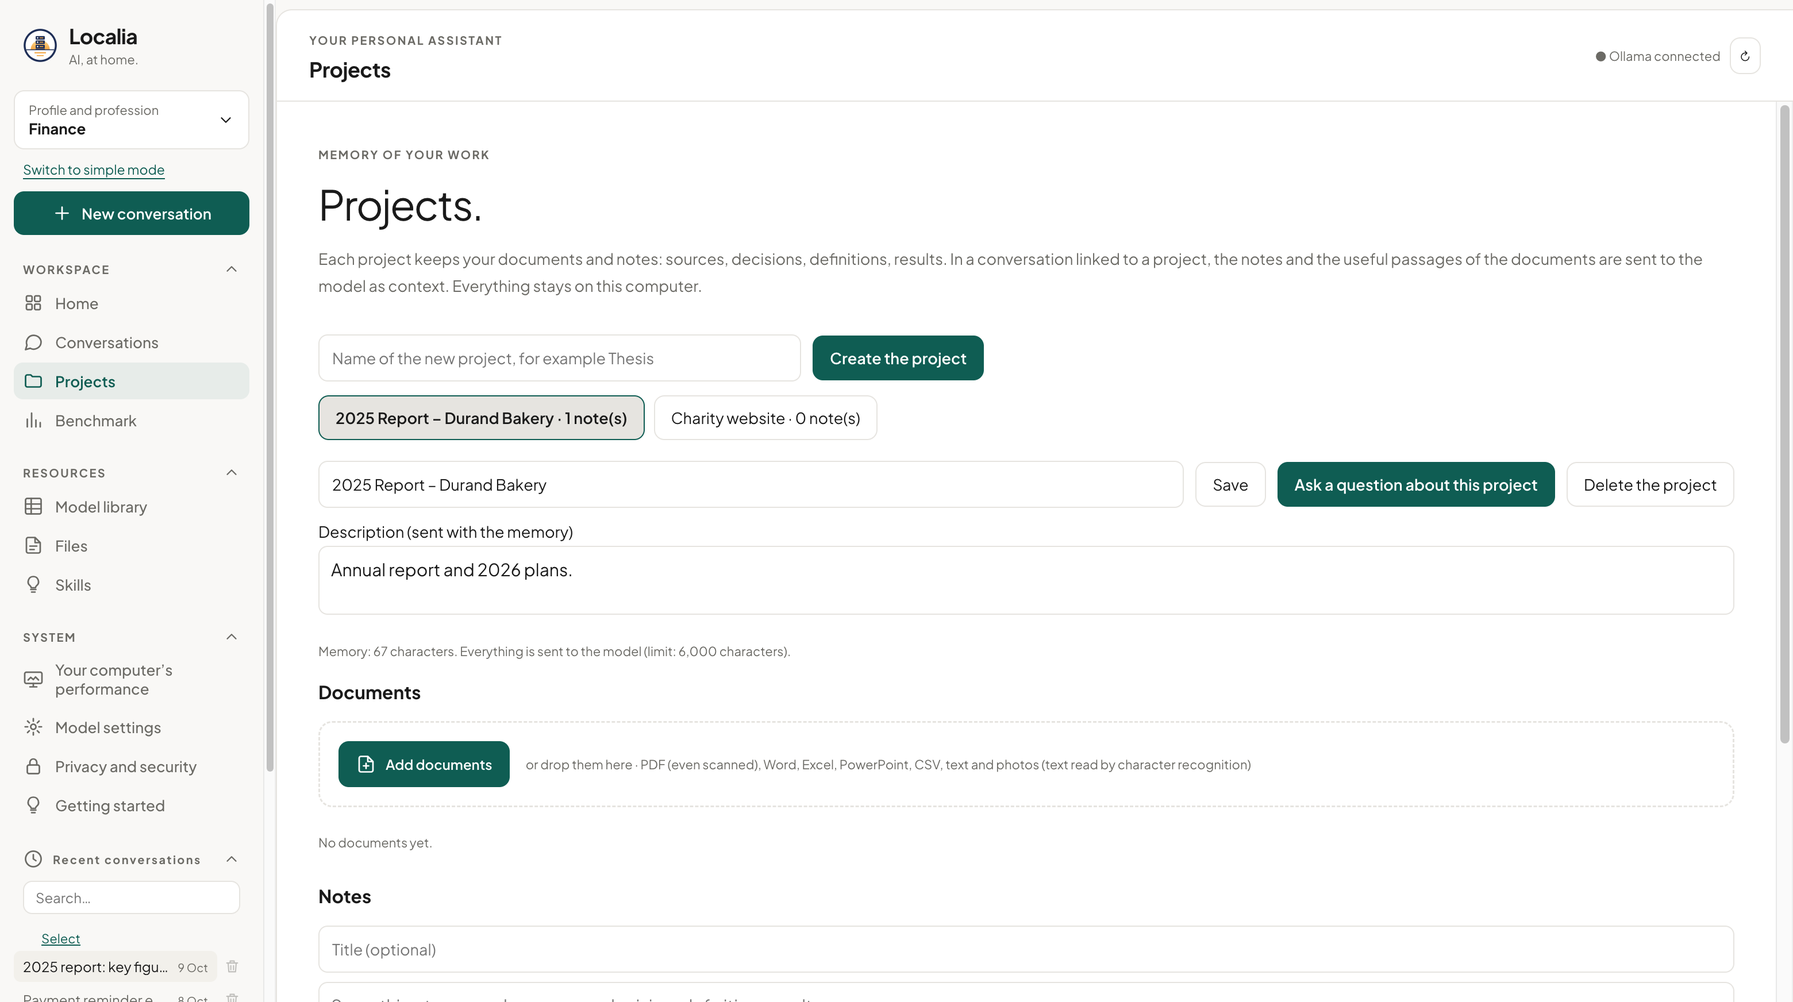
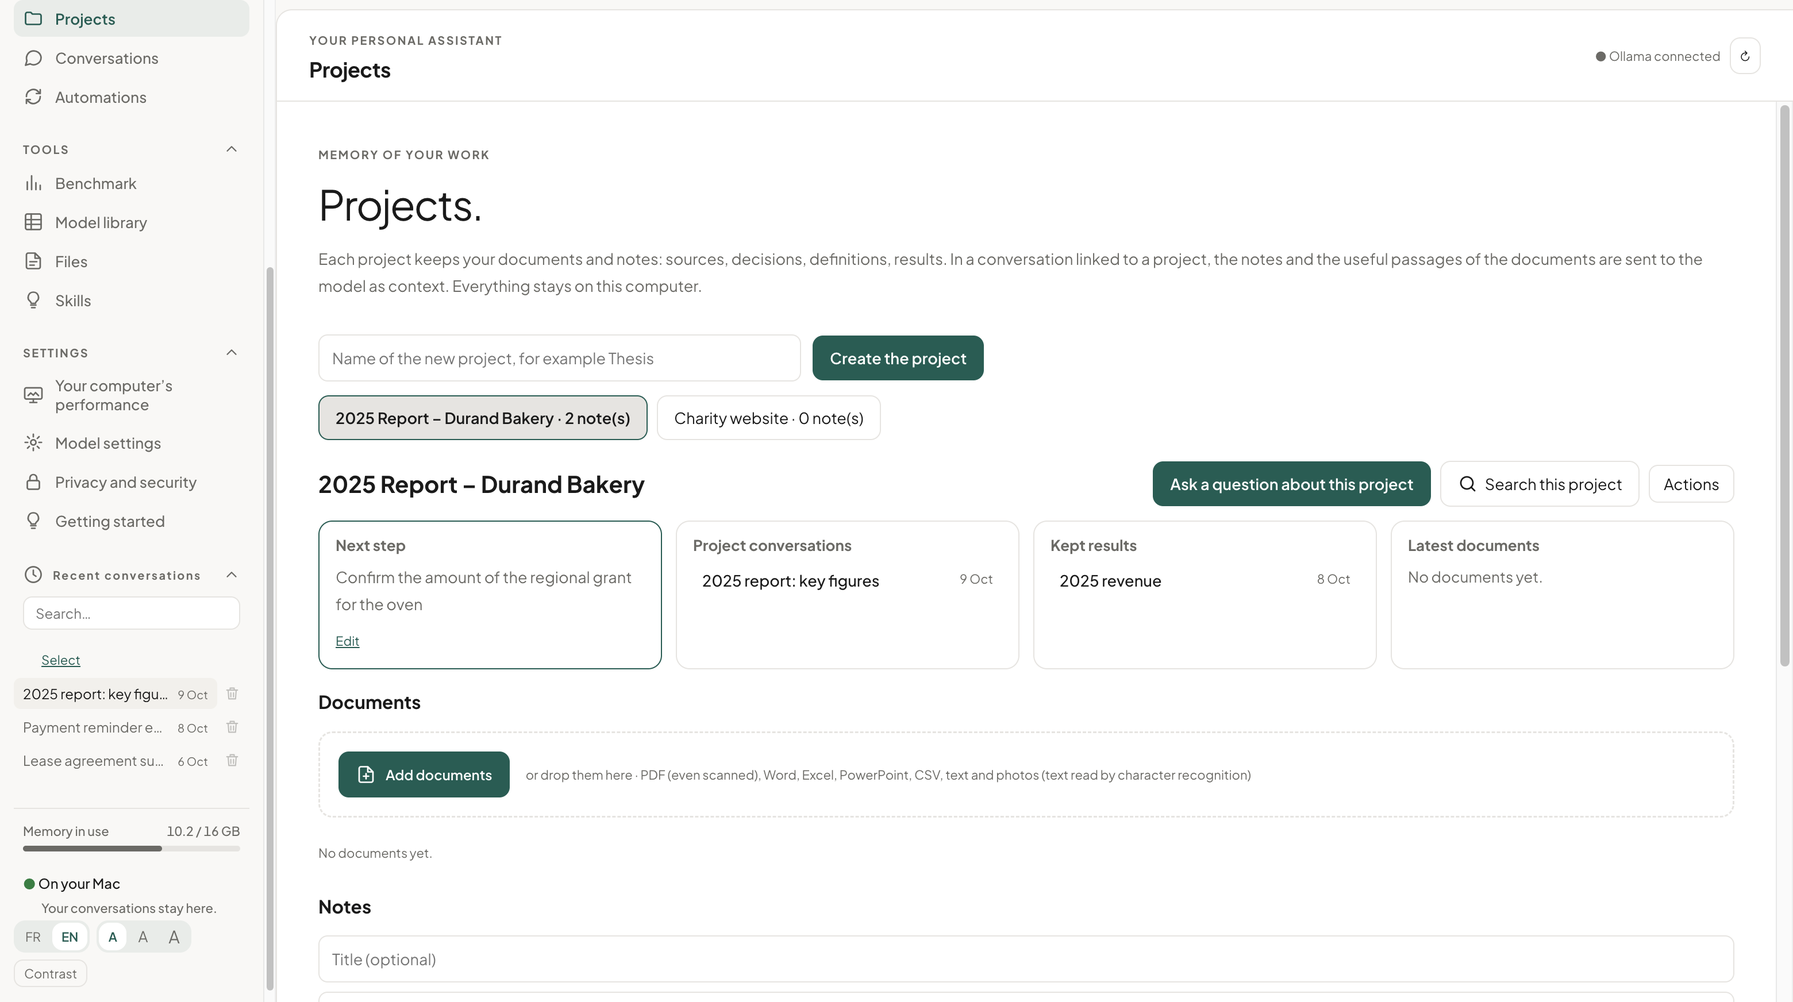
README : recherche commune, projets, mémoire relue, automatisations, sauvegarde ; captures refaites
README français et anglais : nouvelles fonctions, test de l'espace de travail,
mesures reproductibles (recherche documentaire, accessibilité), limites.
Captures régénérées en français et en anglais, avec deux nouvelles (recherche,
automatisations) ; profil de démonstration complété (prochaine étape, note
avec provenance, routine et son résultat).

Extraits de la recherche sans mise en forme Markdown ; mot trouvé surligné
sans contour qui masquait l'espace suivant.

diff --git a/src/search.js b/src/search.js
@@ -25,6 +25,15 @@ function searchExcerpt(text, words, size = 180) {
   return (start > 0 ? '…' : '') + raw.slice(start, end).trim() + (end < raw.length ? '…' : '');
 }
 
+// Texte des réponses sans la mise en forme Markdown (gras, titres, tableaux, code), pour les extraits.
+const plainText = (text) =>
+  String(text || '')
+    .replace(/```[a-z]*\n?/gi, '')
+    .replace(/(\*\*|__|`)/g, '')
+    .replace(/^\s{0,3}(#{1,6}\s+|[-*]\s+|>\s?)/gm, '')
+    .replace(/^\s*\|?[\s:|-]+\|[\s:|-]*$/gm, '')
+    .replace(/\s*\|\s*/g, ' · ');
+
 // Filtre de projet : '' = tous, 'none' = sans projet, sinon l'identifiant du projet.
 const inProject = (projectId, filter) =>
   !filter || (filter === 'none' ? !projectId : projectId === filter);
@@ -51,7 +60,7 @@ function searchConversations(conversations, words, filter = '') {
         index,
         role: m.role,
         at: c.updatedAt || null,
-        excerpt: searchExcerpt(m.content, words),
+        excerpt: searchExcerpt(plainText(m.content), words),
       });
     });
     if (titleMatch && !found && results.length < SEARCH_LIMIT)
@@ -62,7 +71,7 @@ function searchConversations(conversations, words, filter = '') {
         projectId: c.projectId || null,
         index: null,
         at: c.updatedAt || null,
-        excerpt: searchExcerpt(c.messages?.[0]?.content || '', words),
+        excerpt: searchExcerpt(plainText(c.messages?.[0]?.content), words),
       });
   }
   return results;
@@ -83,7 +92,7 @@ function searchNotes(projects, words, filter = '') {
         noteId: n.id,
         title: n.title || 'Note',
         at: n.updatedAt || n.createdAt || null,
-        excerpt: searchExcerpt(n.text, words),
+        excerpt: searchExcerpt(plainText(n.text), words),
       });
     }
   }

diff --git a/src/style.css b/src/style.css
@@ -4457,11 +4457,13 @@ body[data-mode='simple'] .composer-footer {
 }
 .search-excerpt mark,
 .reader-text mark {
+  padding: 0 2px;
   background: var(--accent-soft);
   color: var(--fg);
-  font-weight: 600;
+  font-weight: 700;
   border-radius: 3px;
-  outline: 1px solid var(--accent);
+  text-decoration: underline;
+  text-decoration-color: var(--accent);
 }
 .search-hit {
   outline: 2px solid var(--accent);
@@ -4988,4 +4990,8 @@ input:not([type='checkbox']):not([type='radio']) {
 }
 .chat-project .link-button {
   margin-left: 0;
+}
+
+.run-detail .input-row {
+  justify-content: flex-start;
 }

diff --git a/README.fr.md b/README.fr.md
@@ -14,7 +14,9 @@ Localia est une application de bureau pour macOS, Windows et Linux, pour utilise
 
 | Mode simple | Mode avancé : accueil |
 |---|---|
-| ![Mode simple : choix du domaine, question, idée ou document, avec le modèle conseillé par votre Benchmark, et reprise d’un projet](docs/simple.png) | ![Mode avancé : actions, modèle conseillé, travail récent et état du système](docs/home.png) |
+| ![Mode simple : choix du domaine, question, idée ou document, avec le modèle conseillé par votre Benchmark, et reprise d’un projet](docs/simple.png) | ![Mode avancé : actions, travail à reprendre, résultats à traiter et état technique replié](docs/home.png) |
+| **Recherche commune** | **Automatisations** |
+| ![Recherche dans les conversations, les notes et les documents des projets, mots surlignés](docs/search.png) | ![Routine : synthèse sourcée d’un document ajouté, citations vérifiées, résultat à relire](docs/routines.png) |
 | **Conversation** | **Benchmark** |
 | ![Conversation avec un modèle local](docs/chat.png) | ![Benchmark : résultats par modèle](docs/benchmark.png) |
 | **Comparaison d'une série de questions** | **Graphiques du Benchmark** |
@@ -28,10 +30,16 @@ Localia est une application de bureau pour macOS, Windows et Linux, pour utilise
 - **Questions sur un PDF** : texte extrait localement (PDF.js) ; pour les documents longs, des extraits pertinents sont sélectionnés et les pages transmises au modèle sont affichées.
 - **Vérifications automatiques**, sans modèle, sous chaque réponse : calculs refaits, références de pages impossibles, citations introuvables dans le document, nombres absents ; les PDF contenant une consigne adressée à une IA sont signalés dès l'import.
 - **Assistant de recherche** : un menu Tâche choisit le modèle conseillé par votre Benchmark et ajoute une consigne adaptée ; la mémoire par projet envoie vos propres notes au modèle comme contexte.
+- **Projets** : documents (PDF même scannés, Word, Excel, PowerPoint, CSV, textes, photos) et notes ; en tête de chaque projet, la prochaine étape que vous notez, ses conversations, les résultats conservés et les derniers documents, lisibles page par page. Dans une conversation de projet, chaque source citée est comparée au passage du document, avec un libellé qui dit ce qui a été retrouvé (chiffres, mots-clés ou seulement le document) : une correspondance de texte, pas une garantie de justesse.
+- **Mémoire relue** : une réponse n’entre dans la mémoire d’un projet qu’après relecture, avec sa provenance (conversation, question, modèle, date) ; les décisions que vous écrivez (« on retient… ») sont proposées comme notes, à enregistrer, corriger ou ignorer.
+- **Recherche commune** (⌘K) : conversations, notes et texte des documents des projets, filtrable par projet et par type ; chaque résultat s’ouvre à son endroit (message, note, page du document).
+- **Automatisations** : une routine surveille un projet ; chaque document ajouté est lu, résumé avec ses sources par le modèle choisi, ses citations vérifiées, puis proposé à la relecture. Étape réelle affichée, arrêt et suspension ; vos conversations passent avant ; un traitement interrompu reprend au démarrage suivant.
+- **Accueil** du mode avancé : reprendre (dernière conversation, projets actifs et leur prochaine étape), à traiter (résultats à relire, erreurs, nouveaux articles de la veille, départ programmé manqué), activité en cours, état technique replié.
 - **Fichiers, avec votre accord** : le modèle propose un plan (classer, renommer, créer des dossiers ou une note) dans un dossier que vous avez autorisé ; Localia vérifie chaque action, vous cochez ce qui doit être appliqué ; rien n'est écrasé ni supprimé définitivement, chaque opération peut être annulée.
 - **Chiffrement facultatif** de toutes les données de Localia sur le disque (AES-256-GCM, clé dans le trousseau de macOS, clé de secours).
+- **Sauvegarde et restauration** : toutes les données dans un seul fichier `.localia`, chiffré par une phrase de passe (AES-256-GCM, scrypt), indépendant du trousseau ; empreinte de chaque élément vérifiée ; avant une restauration, les données actuelles sont copiées dans un dossier « avant-restauration ».
 - **Zotero** (en local, lecture seule) : recherche dans votre bibliothèque, comparaison des références d'un article avec elle, questions sur le PDF d'un élément.
-- **Veille et séries programmées** : nouveaux articles sur vos sujets (OpenAlex, facultatif), séries du Benchmark lancées à l'heure choisie, Mac maintenu éveillé.
+- **Veille et séries programmées** : nouveaux articles sur vos sujets (OpenAlex, facultatif), séries du Benchmark lancées à l'heure choisie, Mac maintenu éveillé ; un départ programmé est conservé si Localia se ferme, et signalé comme manqué s'il est passé (jamais lancé à votre insu).
 - **Compétences** : consignes réutilisables en Markdown, choisies dans le menu Tâche ou appelées par `/nom` en début de message ; parcours pas à pas pour les données brutes, l'article, la thèse et le développement d'une application.
 - **Fichiers de données** : consignes, code ou CSV joints à une conversation ; les tableaux sont résumés (colonnes, types, manquants, bornes) au lieu d'être envoyés en entier ; vous exécutez vous-même le code produit.
 - **Bibliographie** : citations d'auteurs (« Nom [n] ») comparées hors ligne à la liste de références de l'article ; en option (désactivée par défaut, seule fonction qui utilise Internet), existence des références vérifiée avec Crossref et recherche d'articles avec OpenAlex.
@@ -80,9 +88,17 @@ Les versions Mac sont signées *ad hoc* (obligatoire sur Apple Silicon), pas ave
 npm test                 # tests unitaires (sans Electron ni Ollama)
 npm run test:features    # application de bureau, Ollama simulé
 npm run test:pdf         # application de bureau, import réel d'un PDF, réponses et services simulés
+npm run test:workspace   # recherche, projets, mémoire, routines, sauvegarde ; Ollama simulé
 npm run test:encryption  # chiffrement des données, coffre de clés simulé
 npm run test:engine      # moteur intégré réel (llama.cpp) avec un modèle de test de 105 Mo (téléchargé une fois)
 npm run test:desktop     # application de bureau, nécessite Ollama actif avec un modèle
+```
+
+Deux mesures reproductibles complètent les tests :
+
+```sh
+node scripts/mesure-recherche.cjs        # choix des passages des documents (docs/MESURE-RECHERCHE.md)
+node scripts/audit-accessibilite.cjs     # contrastes, clavier, zoom 200 %, cibles (docs/ACCESSIBILITE.md)
 ```
 
 Le workflow GitHub lance ces tests et construit l'application sur macOS Apple Silicon, macOS Intel et Windows.
@@ -98,7 +114,7 @@ Une série est un fichier `.txt` ou `.md`. Les questions sont séparées par une
 - **L'accès depuis vos autres appareils est désactivé par défaut.** Une fois activé (Réglages), un petit serveur web permet à un téléphone ou un ordinateur d'utiliser Localia après avoir scanné un QR code qui contient une clé secrète ; sans la clé, tout est refusé, les essais répétés sont bloqués, les en-têtes Host étrangers rejetés. Sur le réseau local, les échanges ne sont pas chiffrés (Wi-Fi de confiance) ; depuis l'extérieur, passez par Tailscale (réseau privé chiffré) plutôt que d'ouvrir l'ordinateur à Internet.
 - **Une page web n'est téléchargée que si vous collez son adresse** (collée dans le message, ou `/web adresse`) : les adresses du réseau local ou privées sont refusées, redirections comprises ; seul le texte de la page est gardé, rien n'est affiché ni exécuté.
 - **Les services en ligne sont désactivés par défaut.** Une fois autorisés dans l'onglet Bibliographie, seul le texte d'une recherche, d'une référence à vérifier ou d'un sujet suivi est envoyé, et uniquement à `api.openalex.org` et `api.crossref.org`. Documents, notes et conversations ne quittent jamais l'ordinateur.
-- Les données (historique, réglages, comparaisons, projets, texte extrait des PDF, journal des actions, veille) sont enregistrées dans le dossier de données d'Electron. Elles peuvent être **chiffrées** (AES-256-GCM, clé protégée par le trousseau de macOS ou la protection des données de Windows, clé de secours exportable).
+- Les données (historique, réglages, comparaisons, projets, texte extrait des PDF, journal des actions, veille, routines) sont enregistrées dans le dossier de données d'Electron. Elles peuvent être **chiffrées** (AES-256-GCM, clé protégée par le trousseau de macOS ou la protection des données de Windows, clé de secours exportable).
 - Les actions sur les fichiers ne touchent que les dossiers autorisés, après validation de chaque action ; rien n'est écrasé ni supprimé définitivement.
 - L'interface Electron est isolée et sandboxée, sans accès à Node ni contenu distant.
 
@@ -107,7 +123,9 @@ Une série est un fichier `.txt` ou `.md`. Les questions sont séparées par une
 - Sans carte graphique prise en charge, les modèles tournent sur le processeur : comptez quelques tokens par seconde pour des modèles de 4 à 12 milliards de paramètres.
 - Les PDF longs sont transmis par extraits choisis selon les mots de la question (10 000 caractères), pas en entier.
 - L'application n'est ni notariée par Apple ni signée pour Windows : le système avertit au premier lancement (macOS : clic droit → Ouvrir ; Windows : « Informations complémentaires » → « Exécuter quand même »).
-- Les tâches planifiées (veille, séries programmées) ne tournent que lorsque Localia est ouverte.
+- Les tâches planifiées (veille, séries programmées, routines) ne tournent que lorsque Localia est ouverte.
+- Les passages des documents d'un projet sont choisis selon les mots de la question : une question formulée autrement peut manquer le bon passage (Localia le signale quand aucun extrait ne contient ses mots). Mesure et limites dans [`docs/MESURE-RECHERCHE.md`](docs/MESURE-RECHERCHE.md).
+- L'accessibilité est contrôlée automatiquement (contrastes, clavier, zoom), pas encore avec un lecteur d'écran : voir [`docs/ACCESSIBILITE.md`](docs/ACCESSIBILITE.md).
 - Les notes sont des jugements humains (ou externes) : le Benchmark calcule des statistiques, il ne note pas les réponses automatiquement.
 
 ## Licence et citation

diff --git a/README.md b/README.md
@@ -14,7 +14,9 @@ Localia is a desktop application for macOS, Windows and Linux for working with l
 
 | Simple mode | Advanced mode: home |
 |---|---|
-| ![Simple mode: choose your field, ask a question, explore an idea or analyse a document, with the model recommended by your Benchmark, and resume a project](docs/en/simple.png) | ![Advanced mode: actions, recommended model, recent work and system status](docs/en/home.png) |
+| ![Simple mode: choose your field, ask a question, explore an idea or analyse a document, with the model recommended by your Benchmark, and resume a project](docs/en/simple.png) | ![Advanced mode: actions, work to resume, results to handle and folded technical status](docs/en/home.png) |
+| **Common search** | **Automations** |
+| ![Search across conversations, notes and project documents, words highlighted](docs/en/search.png) | ![Routine: sourced summary of an added document, citations checked, result to review](docs/en/routines.png) |
 | **Chat** | **Benchmark** |
 | ![Chat with a local model](docs/en/chat.png) | ![Benchmark: per-model results](docs/en/benchmark.png) |
 | **Comparison of a question series** | **Benchmark charts** |
@@ -28,10 +30,16 @@ Localia is a desktop application for macOS, Windows and Linux for working with l
 - **PDF questions**: text is extracted locally (PDF.js); for long documents, relevant excerpts are selected and the pages sent to the model are shown.
 - **Automatic checks**, without any model, under every answer: calculations recomputed, impossible page references, quotations not found in the document, numbers absent from it; PDFs containing instructions addressed to an AI are flagged on import.
 - **Research assistant**: a task menu selects the model recommended by your Benchmark and adds a task instruction; project memory sends your own notes to the model as context.
+- **Projects**: documents (PDFs, even scanned, Word, Excel, PowerPoint, CSV, text, photos) and notes; at the top of each project, the next step you write down, its conversations, kept results and latest documents, readable page by page. In a project conversation, each cited source is compared with the document passage, labelled with what was found (figures, keywords or only the document): a text match, not a guarantee of correctness.
+- **Reviewed memory**: an answer enters a project's memory only after you review it, with its source (conversation, question, model, date); decisions you write (“we keep…”) are offered as notes to save, correct or ignore.
+- **Common search** (⌘K): conversations, notes and project document text, filtered by project and type; each result opens at its place (message, note, document page).
+- **Automations**: a routine watches a project; each added document is read, summarised with its sources by the chosen model, its citations checked, then offered for review. Real step shown, stop and pause; your conversations come first; an interrupted job resumes at the next start.
+- **Home** in advanced mode: resume (last conversation, active projects and their next step), to do (results to review, errors, new watch articles, missed scheduled start), current activity, folded technical status.
 - **Files, with your consent**: the model proposes a plan (sort, rename, create folders or a note) in a folder you authorized; Localia checks each action, you tick what to apply; nothing is overwritten or permanently deleted, every operation can be undone.
 - **Optional encryption** of all Localia data on disk (AES-256-GCM, key in the macOS Keychain, recovery key).
+- **Backup and restore**: all data in a single `.localia` file, encrypted with a passphrase (AES-256-GCM, scrypt), independent of the keychain; each item's fingerprint checked; before a restore, current data is copied into an “avant-restauration” folder.
 - **Zotero** (local, read-only): search your library, compare an article's references with it, ask questions about an item's PDF.
-- **Literature watch and scheduled series**: new articles on your topics (OpenAlex, optional), benchmark series started at a set time with the Mac kept awake.
+- **Literature watch and scheduled series**: new articles on your topics (OpenAlex, optional), benchmark series started at a set time with the Mac kept awake; a scheduled start is kept if Localia closes, and reported as missed if its time has passed (never started behind your back).
 - **Skills**: reusable Markdown instructions, chosen in the Task menu or called with `/name` at the start of a message; step-by-step paths for raw data, articles, theses and app development.
 - **Data files**: attach instructions, code or a CSV to a conversation; tables are summarized (columns, types, missing values, ranges) instead of being sent in full; you run the generated code yourself.
 - **Bibliography**: author citations (“Name [n]”) checked offline against the article's reference list; optionally (off by default, the only feature that uses the Internet) reference existence checked with Crossref and article search with OpenAlex.
@@ -80,9 +88,17 @@ Mac builds are signed *ad hoc* (required on Apple Silicon), not with an Apple de
 npm test                 # unit tests (no Electron, no Ollama)
 npm run test:features    # desktop app, Ollama simulated
 npm run test:pdf         # desktop app, real PDF import, simulated answers and services
+npm run test:workspace   # search, projects, memory, routines, backup; simulated Ollama
 npm run test:encryption  # data encryption, simulated key store
 npm run test:engine      # integrated engine, real llama.cpp with a 105 MB test model (downloaded once)
 npm run test:desktop     # desktop app, requires a running Ollama with one model
+```
+
+Two reproducible measurements complete the tests:
+
+```sh
+node scripts/mesure-recherche.cjs        # choice of document passages (docs/MESURE-RECHERCHE.md, in French)
+node scripts/audit-accessibilite.cjs     # contrast, keyboard, 200% zoom, targets (docs/ACCESSIBILITE.md, in French)
 ```
 
 The GitHub workflow runs these tests and builds the application on macOS Apple Silicon, macOS Intel and Windows.
@@ -98,7 +114,7 @@ A series is a `.txt` or `.md` file. Questions are separated by a line containing
 - **Access from your other devices is off by default.** When enabled (Settings), a small web server lets a phone or computer use Localia after scanning a QR code that carries a secret key; requests without the key are refused, repeated wrong keys are blocked, foreign Host headers are rejected. On the local network the traffic is not encrypted (use a trusted Wi-Fi); from outside, use Tailscale (encrypted private network) rather than opening the computer to the Internet.
 - **Web pages are fetched only when you paste an address** (pasted into the message, or `/web address`): local and private network addresses are refused, redirects included; only the page's text is kept, nothing is displayed or executed.
 - **Online services are off by default.** Once allowed in the Bibliography tab, only the text of a search, a reference to check or a watched topic is sent, and only to `api.openalex.org` and `api.crossref.org`. Documents, notes and conversations never leave the computer.
-- Data (history, settings, comparisons, projects, extracted PDF text, action log, literature watch) is stored in Electron's user data folder. It can be **encrypted** (AES-256-GCM, key protected by the macOS Keychain or Windows data protection, exportable recovery key).
+- Data (history, settings, comparisons, projects, extracted PDF text, action log, literature watch, routines) is stored in Electron's user data folder. It can be **encrypted** (AES-256-GCM, key protected by the macOS Keychain or Windows data protection, exportable recovery key).
 - File actions only touch folders you authorize, after you approve each action; nothing is overwritten or permanently deleted.
 - The Electron renderer is sandboxed and isolated, with no Node access and no remote content.
 
@@ -107,7 +123,9 @@ A series is a `.txt` or `.md` file. Questions are separated by a line containing
 - On computers without a supported GPU, models run on the CPU: expect a few tokens per second for 4–12B models.
 - Long PDFs are sent as keyword-selected excerpts (10,000 characters), not in full.
 - The application is not notarized by Apple nor signed for Windows: the system warns on first launch (macOS: right-click → Open; Windows: “More info” → “Run anyway”).
-- Scheduled tasks (literature watch, scheduled series) run only while Localia is open.
+- Scheduled tasks (literature watch, scheduled series, routines) run only while Localia is open.
+- Project document passages are chosen by the words of the question: a question phrased differently can miss the right passage (Localia says so when no extract contains its words). Measurement and limits in [`docs/MESURE-RECHERCHE.md`](docs/MESURE-RECHERCHE.md).
+- Accessibility is checked automatically (contrast, keyboard, zoom), not yet with a screen reader: see [`docs/ACCESSIBILITE.md`](docs/ACCESSIBILITE.md).
 - Grades are human (or external) judgements: the benchmark computes statistics, it does not grade answers automatically.
 
 ## License and citation
